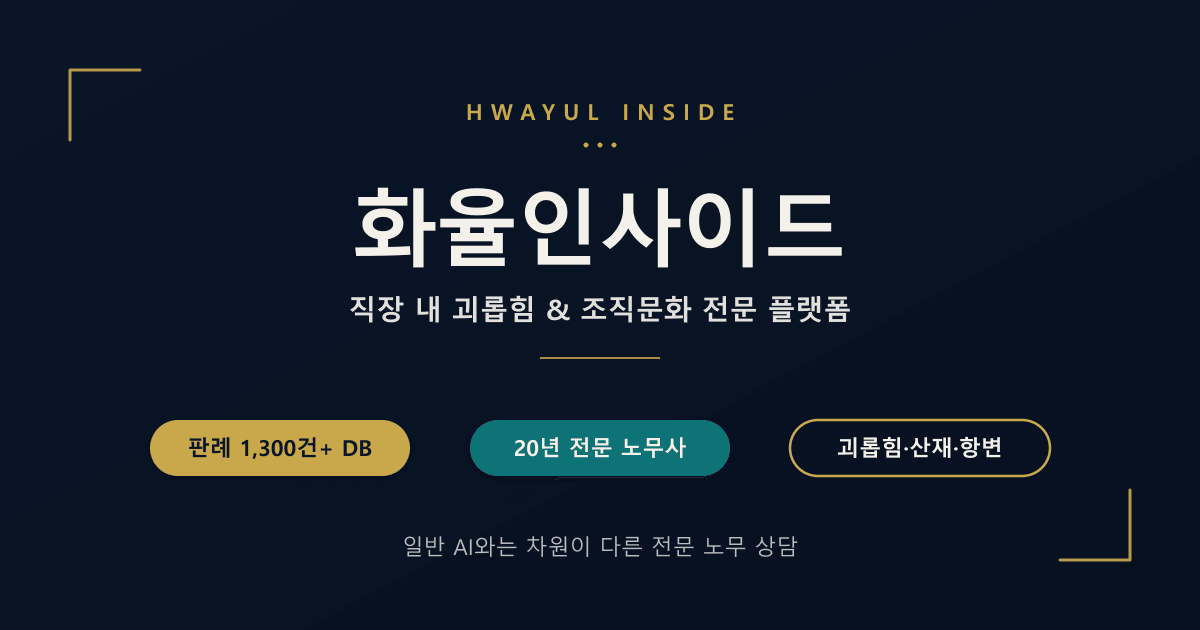
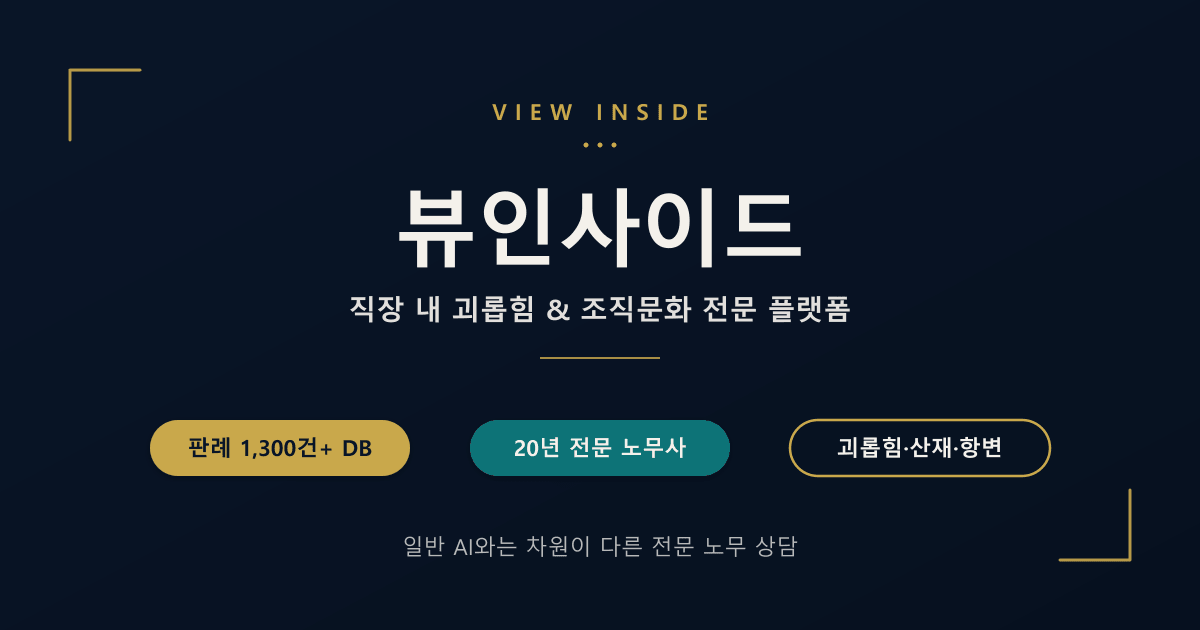
브랜드명 영문도 교체: Hwayul Inside → View Inside
되돌리기: git revert [이 커밋 해시]

변경:
- "Hwayul Inside" → "View Inside" (8곳: Nav, App footer, 인쇄 템플릿,
  이메일 템플릿, 리포트 템플릿, AdminEmailComposer, 뉴스레터 템플릿)
- "HWAYUL INSIDE" → "VIEW INSIDE" (OG 이미지, DifferentiationSection)
- OG 이미지 재생성 (public/og-image.png)
- OG 이미지 URL 캐시 무효화용 ?v=20260422b

손대지 않은 것:
- 도메인 hwayul.kr
- 이메일 hwayulinside@
- API URL, 파일명, 디렉토리명, GitHub 저장소명

Changed region(s): [[0.2775, 0.3016, 0.7092, 0.4222], [0.37, 0.1508, 0.6167, 0.2111]]

diff --git a/src/components/AdminEmailComposer.jsx b/src/components/AdminEmailComposer.jsx
@@ -98,7 +98,7 @@ ${resultSummary || "(결과 데이터 없음)"}
   <div style="background:#0A1628;padding:28px 32px;text-align:center">
     <svg width="48" height="48" viewBox="0 0 100 100" style="margin-bottom:8px"><defs><linearGradient id="eN" x1="0%" y1="0%" x2="0%" y2="100%"><stop offset="0%" stop-color="#1E3A5F"/><stop offset="100%" stop-color="#2A4A70"/></linearGradient><linearGradient id="eM" x1="0%" y1="0%" x2="100%" y2="100%"><stop offset="0%" stop-color="#0D7377"/><stop offset="100%" stop-color="#4ECDC4"/></linearGradient></defs><line x1="18" y1="10" x2="18" y2="90" stroke="url(#eN)" stroke-width="10" stroke-linecap="round"/><line x1="50" y1="10" x2="50" y2="55" stroke="url(#eN)" stroke-width="10" stroke-linecap="round"/><line x1="78" y1="52" x2="78" y2="90" stroke="url(#eN)" stroke-width="10" stroke-linecap="round"/><path d="M18,46 C28,46 32,33 40,33 C48,33 44,46 50,46" stroke="url(#eM)" stroke-width="7" fill="none" stroke-linecap="round"/><path d="M50,12 C52,30 60,42 70,48 C74,50 78,52 78,52" stroke="url(#eM)" stroke-width="7" fill="none" stroke-linecap="round"/><path d="M96,12 C94,28 88,40 82,47 C80,50 78,52 78,52" stroke="url(#eM)" stroke-width="7" fill="none" stroke-linecap="round"/><path d="M18,90 C34,82 62,82 78,90" stroke="url(#eM)" stroke-width="4.5" fill="none" stroke-linecap="round" opacity="0.45"/><circle cx="50" cy="46" r="3" fill="#4ECDC4" opacity="0.5"/><circle cx="78" cy="52" r="3" fill="#4ECDC4" opacity="0.5"/></svg>
     <div style="font-size:20px;font-weight:800;font-family:'Noto Sans KR',sans-serif"><span style="color:#E8E5DE">뷰</span> <span style="color:#4ECDC4">인사이드</span></div>
-    <div style="font-size:9px;color:rgba(244,241,235,0.5);margin-top:2px;letter-spacing:1.5px">Hwayul Inside</div>
+    <div style="font-size:9px;color:rgba(244,241,235,0.5);margin-top:2px;letter-spacing:1.5px">View Inside</div>
     <div style="font-size:8px;color:rgba(244,241,235,0.3);letter-spacing:0.5px;margin-top:1px">직장내괴롭힘 & 조직문화 플랫폼</div>
   </div>
   <div style="padding:36px 32px">

diff --git a/index.html b/index.html
@@ -15,7 +15,7 @@
 <meta property="og:site_name" content="뷰인사이드" />
 <meta property="og:title" content="뷰인사이드 — 직장 내 괴롭힘 & 조직문화 전문 플랫폼" />
 <meta property="og:description" content="20년 노무 전문성과 1,300건+ 실제 판례 DB. 일반 AI와는 차원이 다른 전문 노무 상담을 경험하세요." />
-<meta property="og:image" content="https://hwayul.kr/og-image.png?v=20260422" />
+<meta property="og:image" content="https://hwayul.kr/og-image.png?v=20260422b" />
 <meta property="og:image:width" content="1200" />
 <meta property="og:image:height" content="630" />
 <meta property="og:url" content="https://hwayul.kr" />
@@ -25,7 +25,7 @@
 <meta name="twitter:card" content="summary_large_image" />
 <meta name="twitter:title" content="뷰인사이드 — 직장 내 괴롭힘 & 조직문화 전문 플랫폼" />
 <meta name="twitter:description" content="20년 노무 전문성과 1,300건+ 실제 판례 DB." />
-<meta name="twitter:image" content="https://hwayul.kr/og-image.png?v=20260422" />
+<meta name="twitter:image" content="https://hwayul.kr/og-image.png?v=20260422b" />
   </head>
   <body>
     <div id="root"></div>

diff --git a/src/components/ReportWriter.jsx b/src/components/ReportWriter.jsx
@@ -132,7 +132,7 @@ h2{color:#0D7377;margin-top:32px;font-size:16px;border-left:4px solid #C9A84C;pa
 <div class="wrap">
   <div style="background:#0A1628;padding:28px 32px;text-align:center">
     <div style="font-size:20px;font-weight:800"><span style="color:#E8E5DE">뷰</span> <span style="color:#4ECDC4">인사이드</span></div>
-    <div style="font-size:9px;color:rgba(244,241,235,0.5);margin-top:2px;letter-spacing:1.5px">Hwayul Inside</div>
+    <div style="font-size:9px;color:rgba(244,241,235,0.5);margin-top:2px;letter-spacing:1.5px">View Inside</div>
   </div>
   <div style="padding:36px 32px">
     <div style="font-size:14px;color:#0A1628;line-height:1.9;white-space:pre-wrap;margin-bottom:24px">${emailBody || `${r.name||""} 님 안녕하세요.\n뷰인사이드입니다.\n\n요청하신 ${diagType} 전문 노무사 검토 리포트를 첨부파일로 보내드립니다.\n상세 내용은 첨부된 리포트를 확인해 주시기 바랍니다.\n\n리포트 내용에 대한 문의사항이 있으시면 언제든 연락 주세요.`}</div>

diff --git a/src/components/Nav.jsx b/src/components/Nav.jsx
@@ -51,7 +51,7 @@ export function Nav({ active, setActive }) {
         <div style={{ fontFamily:"'Noto Sans KR', sans-serif", fontSize:17, fontWeight:800, letterSpacing:"-0.3px", lineHeight:1.2 }}>
           <span style={{ color:"#E8E5DE" }}>뷰</span><span style={{ color:C.tealLight, marginLeft:3 }}>인사이드</span>
         </div>
-        <div style={{ fontSize:9, color:"rgba(244,241,235,0.5)", letterSpacing:"1.5px", marginTop:1, fontFamily:"'Noto Sans KR', sans-serif", fontWeight:400 }}>Hwayul Inside</div>
+        <div style={{ fontSize:9, color:"rgba(244,241,235,0.5)", letterSpacing:"1.5px", marginTop:1, fontFamily:"'Noto Sans KR', sans-serif", fontWeight:400 }}>View Inside</div>
         <div style={{ fontSize:7, color:"rgba(244,241,235,0.3)", letterSpacing:"0.5px", marginTop:0, fontFamily:"'Noto Sans KR', sans-serif" }}>직장내괴롭힘 & 조직문화 플랫폼</div>
       </div>
     </div>

diff --git a/src/App.jsx b/src/App.jsx
@@ -361,7 +361,7 @@ useEffect(() => {
               </svg>
               <div>
                 <div style={{ fontFamily:"'Noto Sans KR', sans-serif", fontSize:19, fontWeight:800 }}><span style={{ color:C.cream }}>뷰</span> <span style={{ color:C.tealLight }}>인사이드</span></div>
-                <div style={{ fontSize:9, color:"rgba(244,241,235,0.45)", letterSpacing:"1.5px", fontFamily:"'Noto Sans KR', sans-serif" }}>Hwayul Inside</div>
+                <div style={{ fontSize:9, color:"rgba(244,241,235,0.45)", letterSpacing:"1.5px", fontFamily:"'Noto Sans KR', sans-serif" }}>View Inside</div>
                 <div style={{ fontSize:7, color:"rgba(244,241,235,0.28)", letterSpacing:"0.5px", marginTop:0 }}>직장내괴롭힘 & 조직문화 플랫폼</div>
               </div>
             </div>

diff --git a/src/pages/AdminSection.jsx b/src/pages/AdminSection.jsx
@@ -1651,7 +1651,7 @@ export function AdminSection({ setActive, authed, setAuthed }) {
 <div class="wrap">
   <div style="background:#0A1628;padding:28px 32px;text-align:center">
     <div style="font-size:20px;font-weight:800;font-family:'Noto Sans KR',sans-serif"><span style="color:#E8E5DE">뷰</span> <span style="color:#4ECDC4">인사이드</span></div>
-    <div style="font-size:9px;color:rgba(244,241,235,0.5);margin-top:2px;letter-spacing:1.5px">Hwayul Inside Newsletter</div>
+    <div style="font-size:9px;color:rgba(244,241,235,0.5);margin-top:2px;letter-spacing:1.5px">View Inside Newsletter</div>
   </div>
   <div style="padding:36px 32px">
     <h2 style="font-size:20px;font-weight:800;color:#0A1628;margin-bottom:20px;line-height:1.5">${nlForm.title||"(제목 없음)"}</h2>

diff --git a/src/utils/printTemplates.js b/src/utils/printTemplates.js
@@ -25,7 +25,7 @@ const PRINT_HEADER = `
       </svg>
       <div>
         <div style="font-size:22px;font-weight:800;color:#0A1628;font-family:'Noto Sans KR',sans-serif">뷰 <span style="color:#0D7377">인사이드</span></div>
-        <div style="font-size:9px;color:#8B8680;margin-top:1px;letter-spacing:1.5px">Hwayul Inside</div>
+        <div style="font-size:9px;color:#8B8680;margin-top:1px;letter-spacing:1.5px">View Inside</div>
         <div style="font-size:8px;color:#B0ADA6;letter-spacing:0.5px">직장내괴롭힘 & 조직문화 플랫폼</div>
       </div>
     </div>

diff --git a/scripts/gen-og.js b/scripts/gen-og.js
@@ -34,7 +34,7 @@ const svg = `<?xml version="1.0" encoding="UTF-8"?>
   <!-- 상단 브랜드 태그 -->
   <text x="${W/2}" y="120" text-anchor="middle"
         fill="${GOLD}" font-family="'Malgun Gothic','Noto Sans KR',sans-serif"
-        font-size="22" font-weight="700" letter-spacing="8">HWAYUL INSIDE</text>
+        font-size="22" font-weight="700" letter-spacing="8">VIEW INSIDE</text>
   <circle cx="${W/2-14}" cy="145" r="2.5" fill="${GOLD}"/>
   <circle cx="${W/2}"    cy="145" r="2.5" fill="${GOLD}"/>
   <circle cx="${W/2+14}" cy="145" r="2.5" fill="${GOLD}"/>

diff --git a/src/pages/DifferentiationSection.jsx b/src/pages/DifferentiationSection.jsx
@@ -30,7 +30,7 @@ export function DifferentiationSection({ setActive }) {
           color: C.gold,
           letterSpacing: "3px",
           marginBottom: 8,
-        }}>WHY HWAYUL INSIDE</div>
+        }}>WHY VIEW INSIDE</div>
 
         {/* 메인 타이틀 */}
         <h2 style={{
